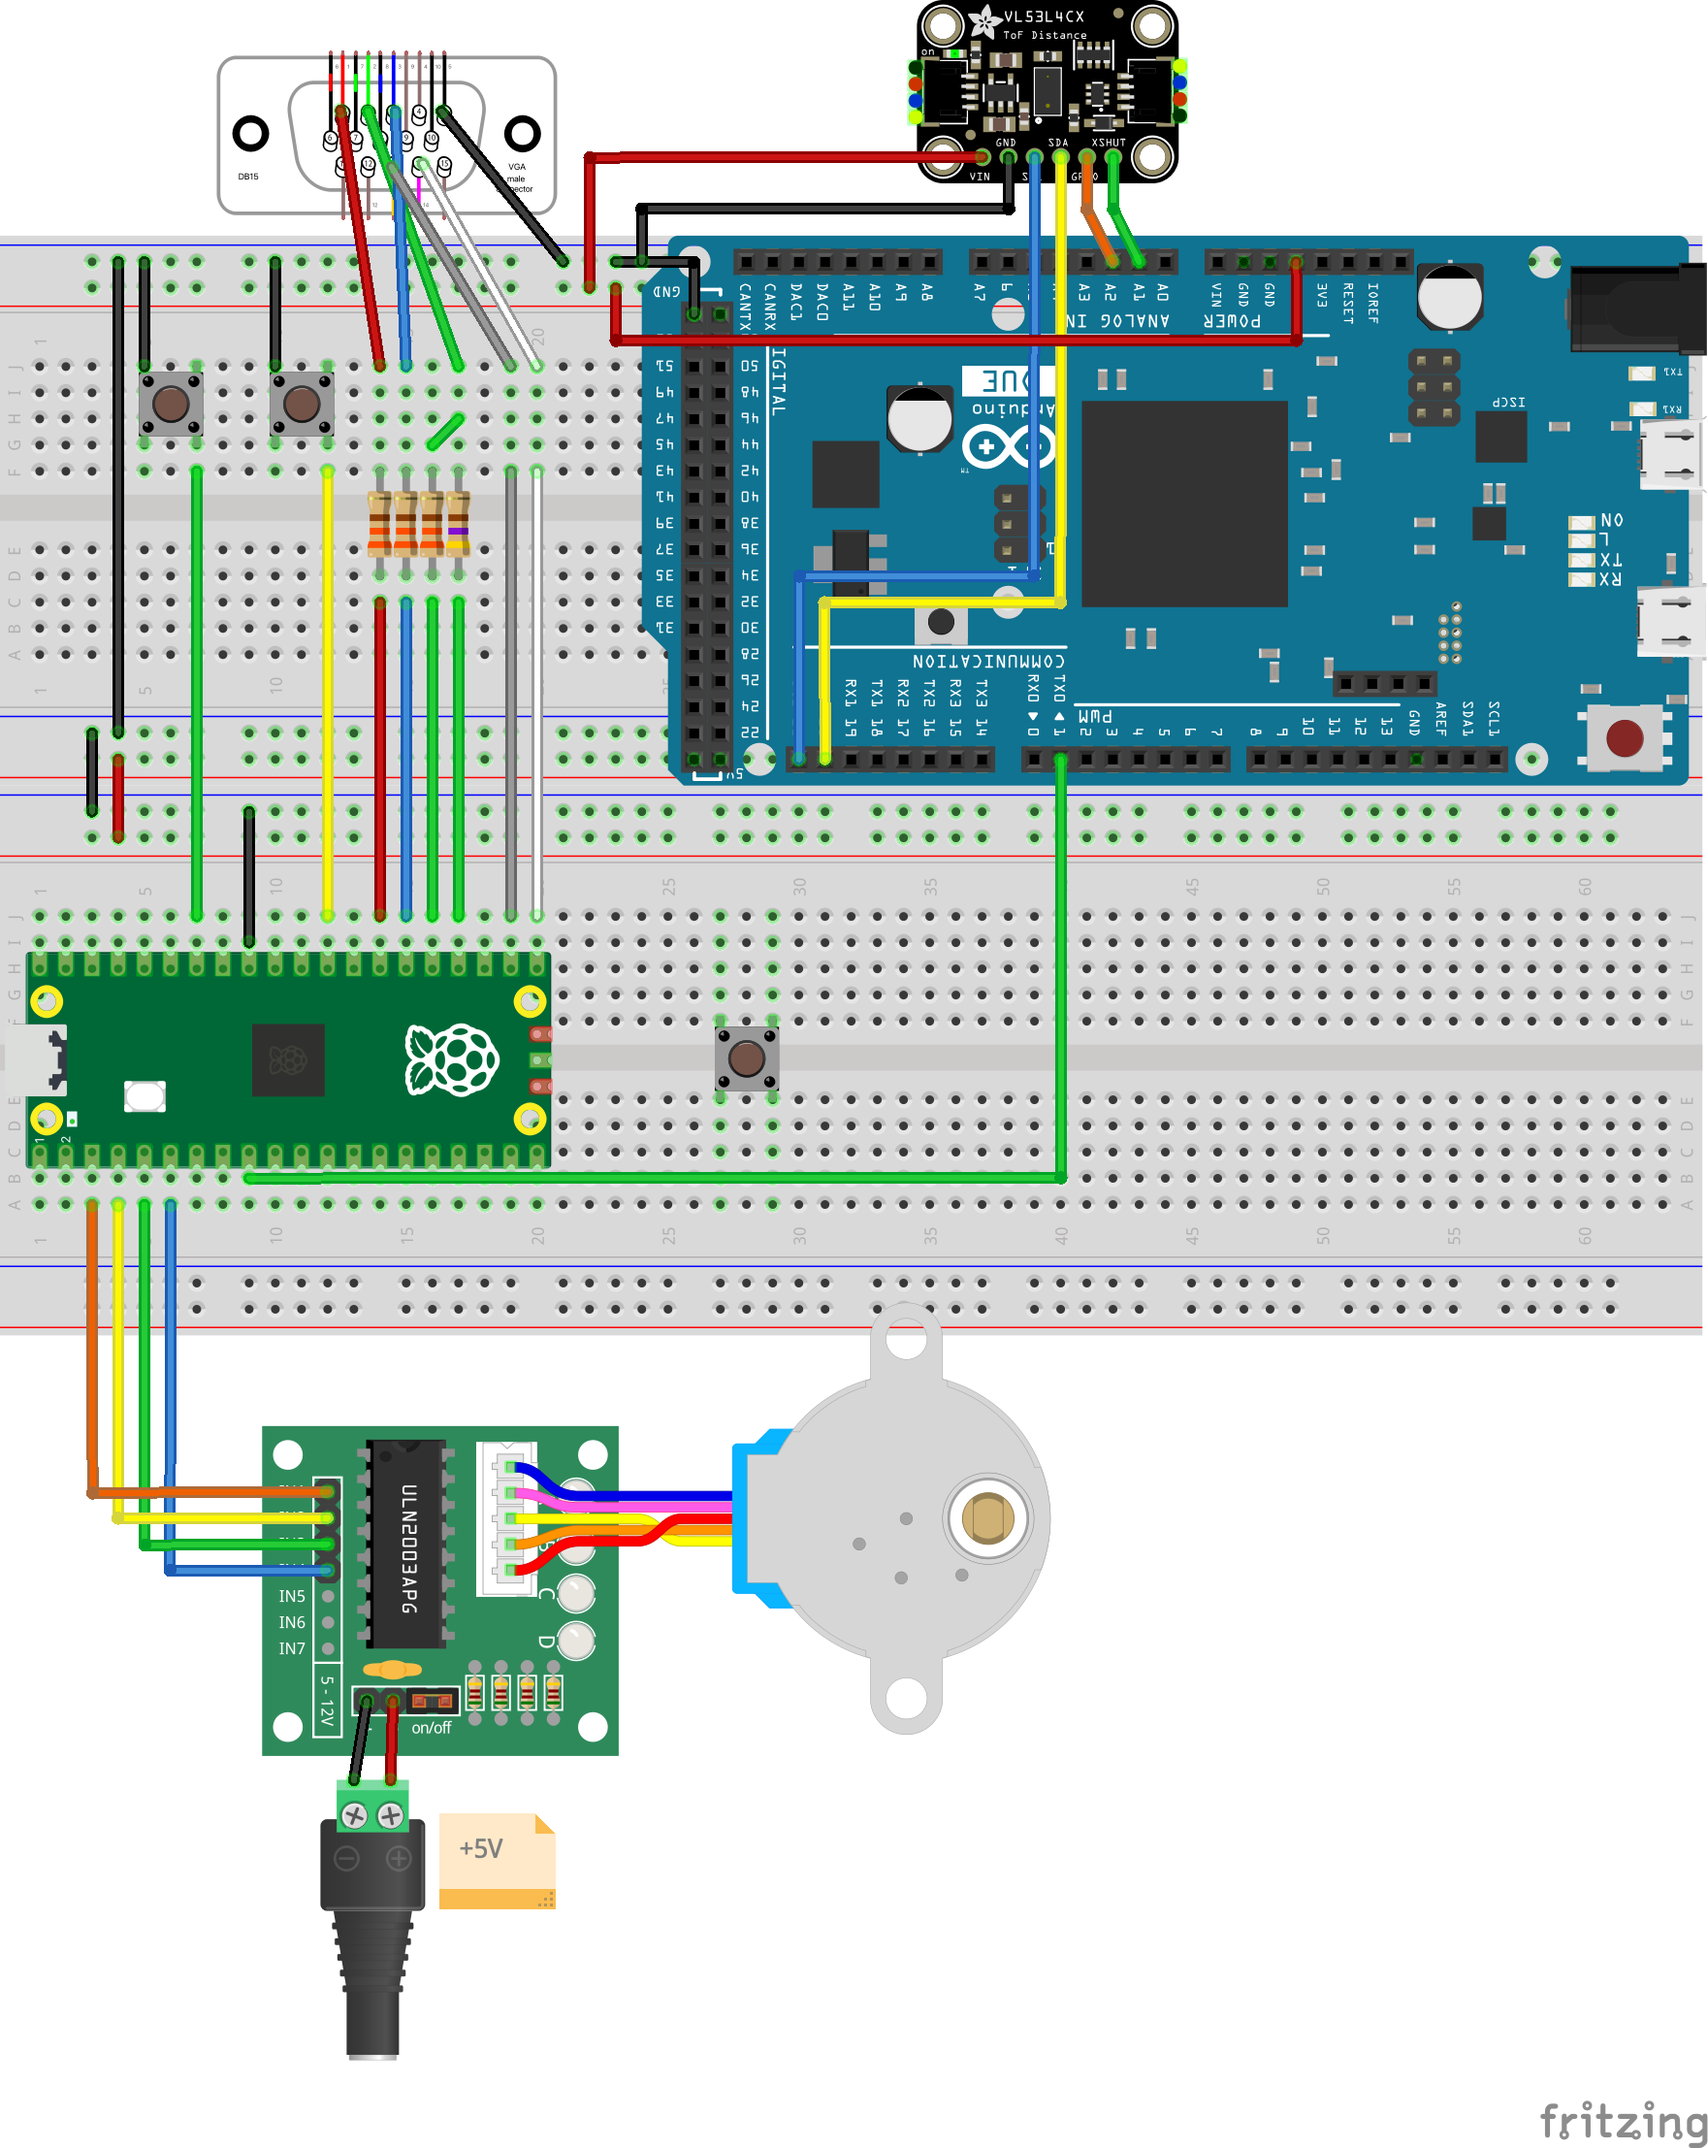
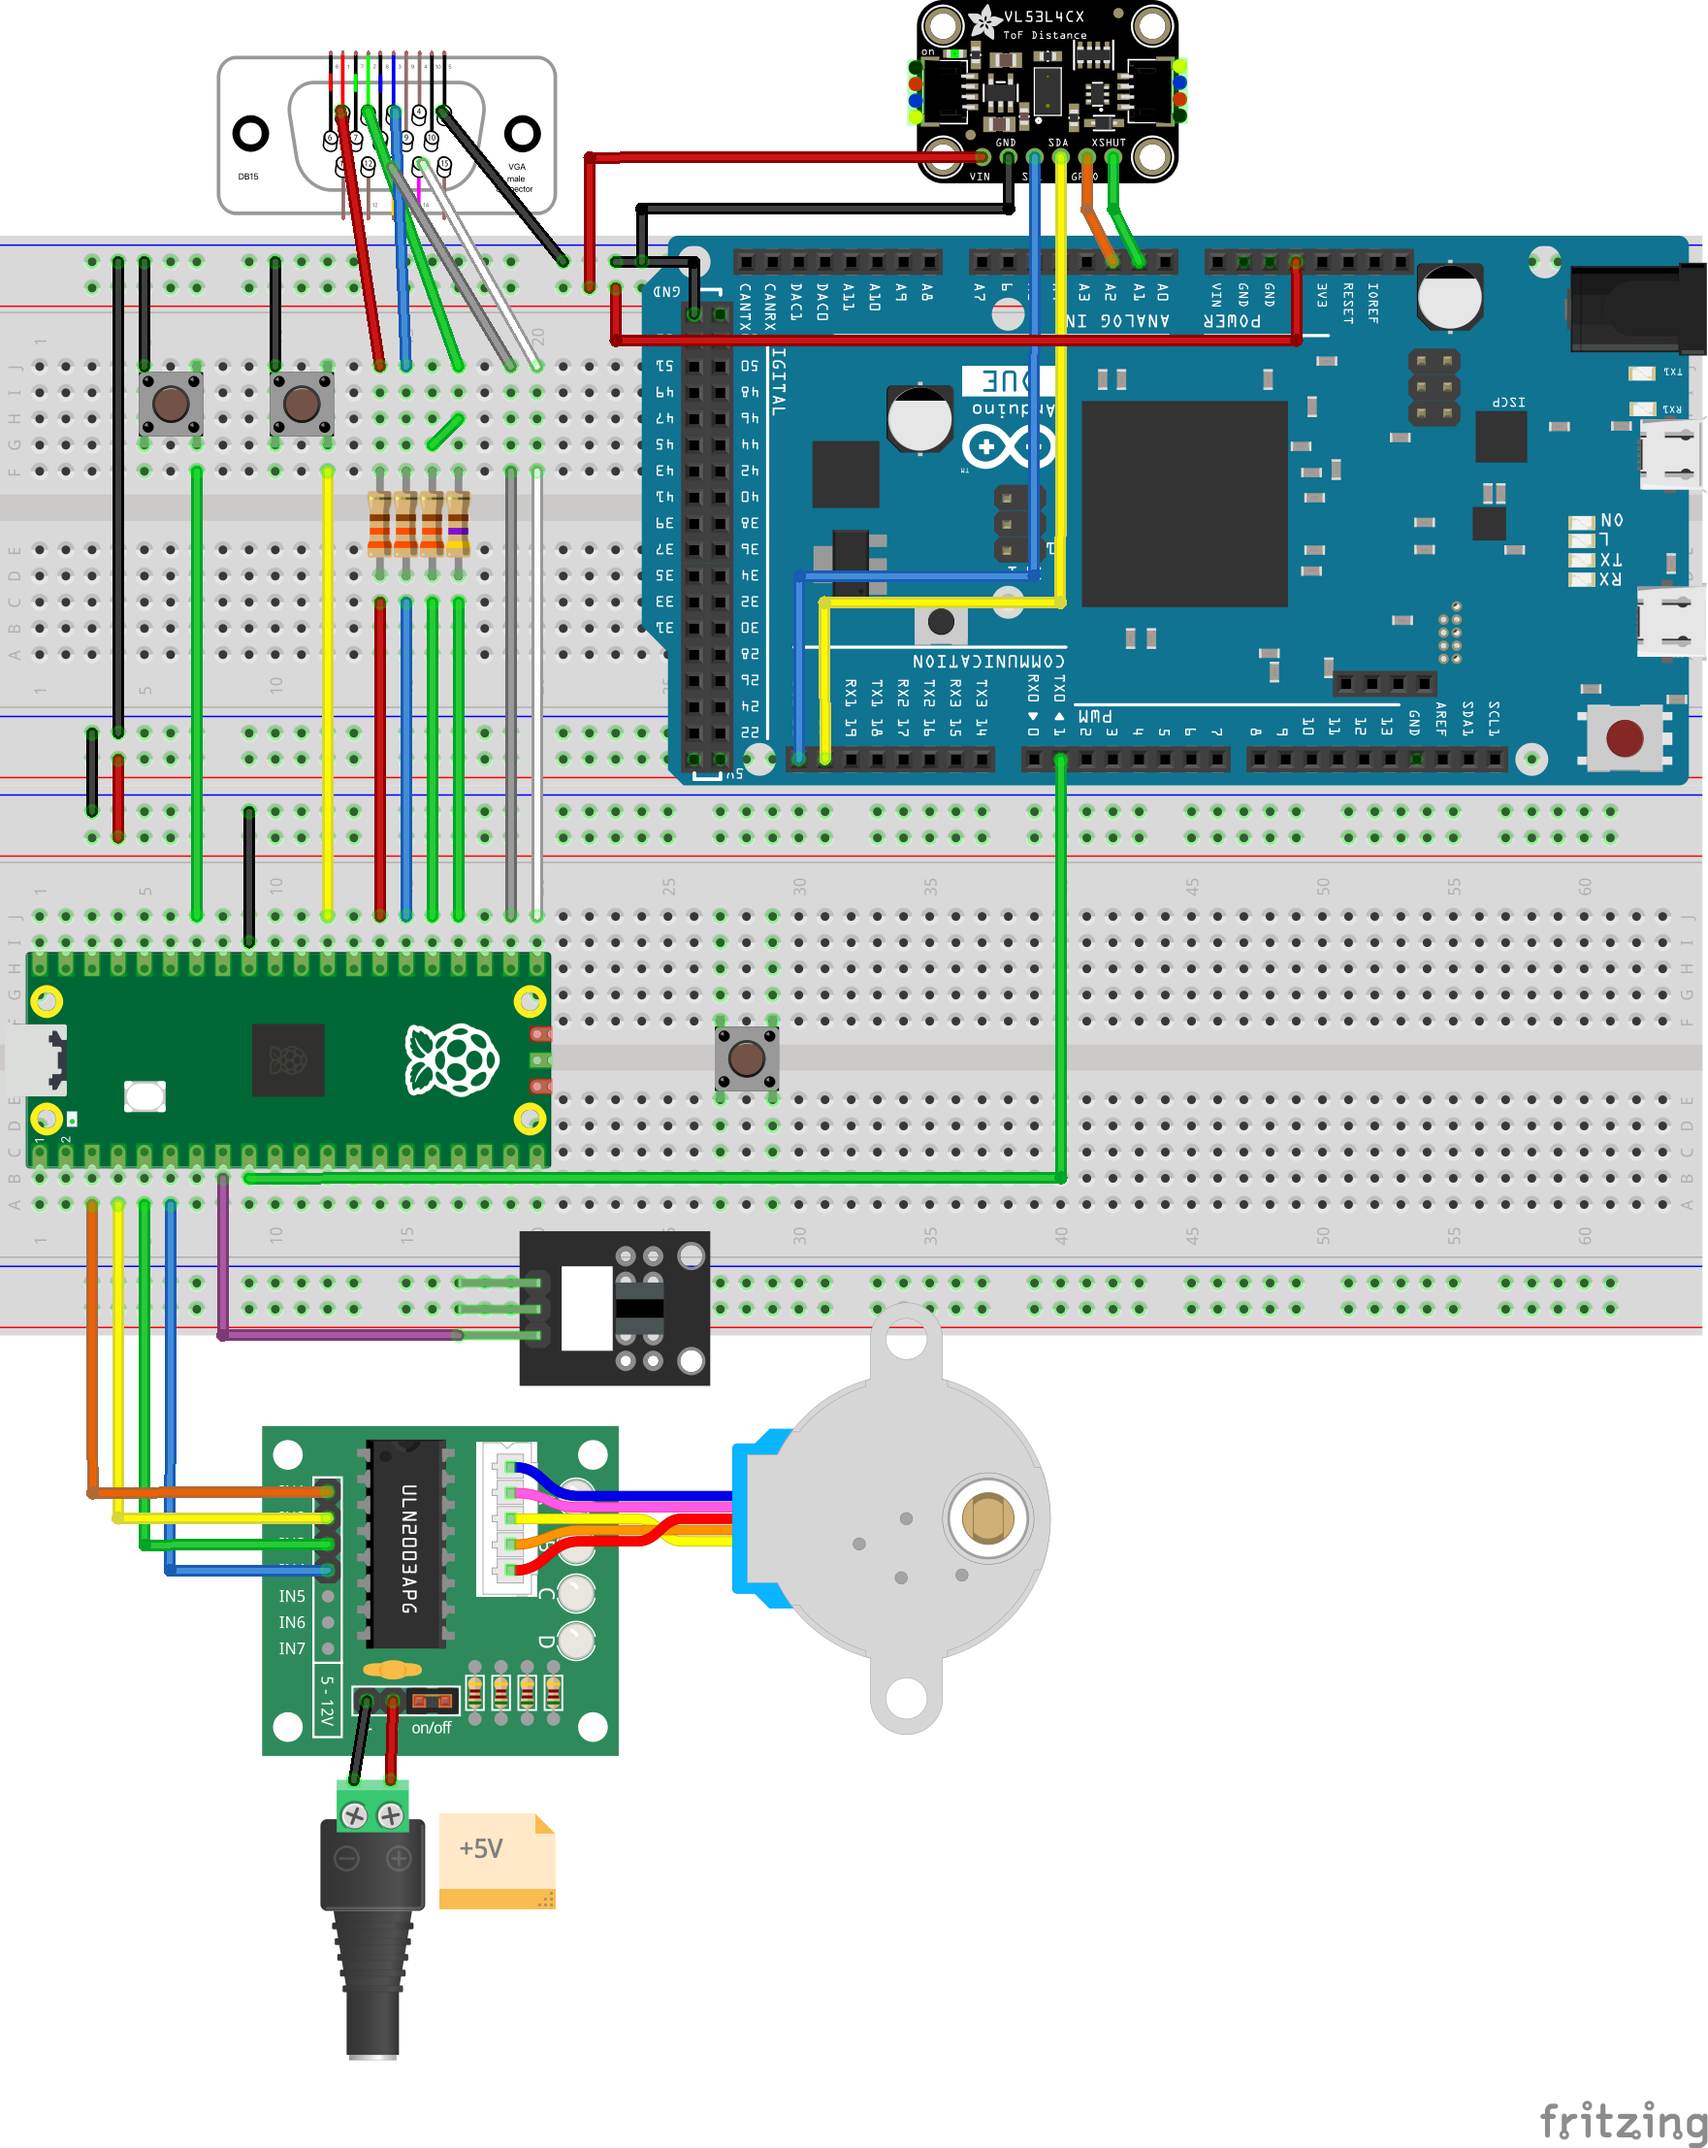
update schematic

Changed region(s): [[0.0937, 0.5298, 0.9682, 0.6545]]

diff --git a/am2589_dcl252_mpm297/index.md b/am2589_dcl252_mpm297/index.md
@@ -81,6 +81,8 @@ Discuss tricky parts, hardware, and software choices.
 
 ### Hardware Schematic
 
+TODO: could someone help check this wiring
+
 ![A [Fritzing](https://fritzing.org/) schematic of our breadboard](schematic.png)
 
 ### Graphics
